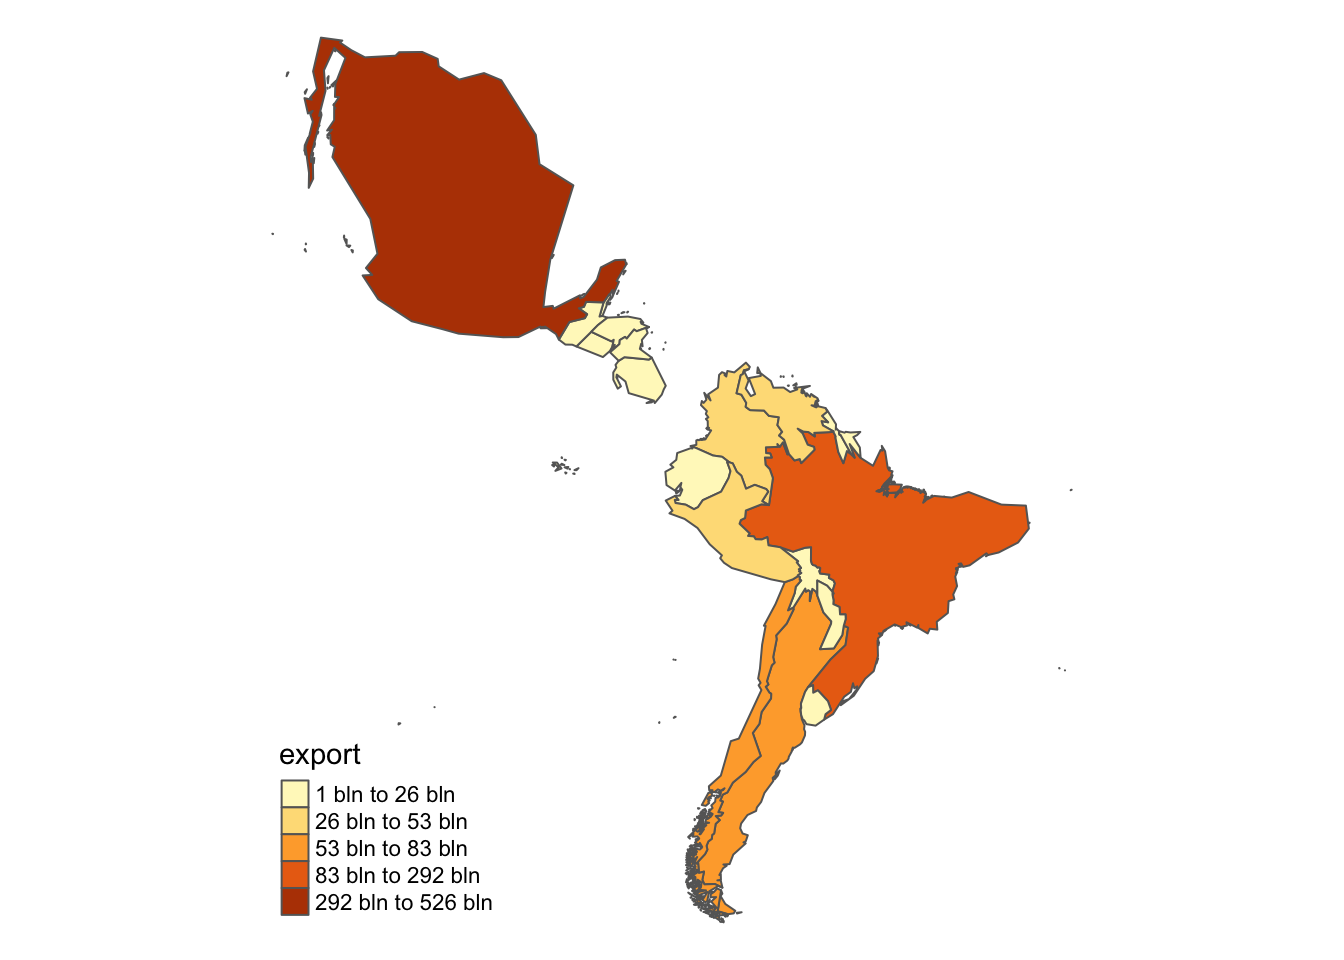
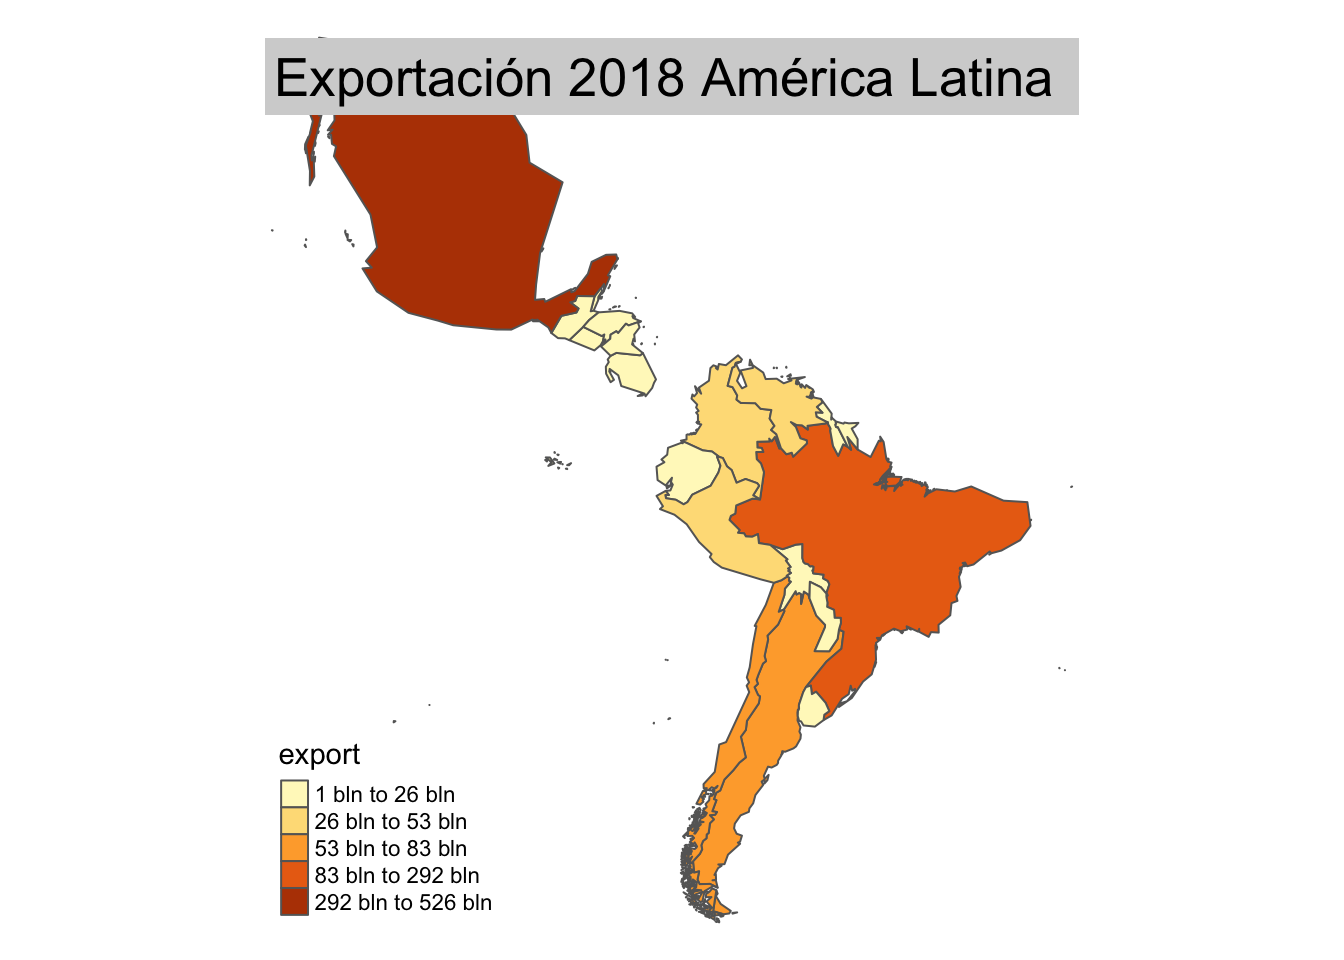
Updating export anlysis

diff --git a/content/post/2021-01-09-export/index.html b/content/post/2021-01-09-export/index.html
@@ -33,7 +33,9 @@ library(ggplot2)
 library(ggthemes)
 library(scales)
 library(maptools)
-library(cartogram)</code></pre>
+library(cartogram)
+library(sf)
+library(tmap)</code></pre>
 </div>
 <div id="cartograma-de-las-exportaciones-en-américa-latina" class="section level2">
 <h2>Cartograma de las exportaciones en América Latina</h2>
@@ -64,41 +66,182 @@ export_latam &lt;- merge(x = comercio_mundo_api, y = countries_LATAM,
          reporter_fullname_english != &quot;Br. Virgin Isds&quot;,
          reporter_fullname_english != &quot;United States Minor Outlying Islands&quot;,
          reporter_fullname_english != &quot;South Georgia and the South Sandwich Islands&quot;) %&gt;% # Saco los países no correspondiendo a América Latina
-  drop_na()
-</code></pre>
+  drop_na()</code></pre>
 </div>
-<div id="generando-el-cartograma" class="section level3">
-<h3>Generando el cartograma</h3>
-<pre class="r"><code>library(sf)
-library(rgdal)
-library(tmap)
-library(broom)
-
-# Data of world map:
+<div id="generando-cartogramas" class="section level3">
+<h3>Generando cartogramas</h3>
+<p>Estuve trabajando mucho tiempo para lograr hacer el cartograma que encontré dos diferentes metodos de hacer el cartograma.</p>
+<p>Las mayoría de las guías que encontré online utilizaban principalmente la información que viene cargada con el parquete de maptools (donde se encuentra “wrld_simpl”) (como por ejemplo este articulo: <a href="https://www.r-graph-gallery.com/331-basic-cartogram.html" class="uri">https://www.r-graph-gallery.com/331-basic-cartogram.html</a>, donde parece muy fácil hacer un cartograma).</p>
+<p>Así, estaba buscando durante mucho tiempo como hacer para poder utilizar los datos de exportación que tenía desde Open Trade Statistics. En el camino de idas y vueltas, encontré que había encontrado dos diferente metodos de hacer los cartogramas, así decidí mostrar ambos metodos:</p>
+<div id="metodo-1" class="section level4">
+<h4>Metodo 1:</h4>
+<p>Este primer metodo se base principalmente en un articulo de r-graph-gallery.com (<a href="https://www.r-graph-gallery.com/332-hexbin-chloropleth-cartogram.html" class="uri">https://www.r-graph-gallery.com/332-hexbin-chloropleth-cartogram.html</a>) y los ejemplos de graficos del Github del paquete de “cartogram” (<a href="https://github.com/sjewo/cartogram" class="uri">https://github.com/sjewo/cartogram</a>).</p>
+<p>El articlo de r-graph-gallery.com me ayudó mucho a entender como manipular los datos de Open Trade Statistics para poder implementarlos con el</p>
+<pre class="r"><code># Data of world map:
 data(wrld_simpl)
+
 # Eligo el subset de América de Sur y América Central
 latam &lt;- subset(wrld_simpl,wrld_simpl$SUBREGION==5|wrld_simpl$SUBREGION==13) 
 
-# Generando un &quot;spacial element&quot;
+# Generando un &quot;geospatial object&quot; que cubre América Latina:
 latam &lt;- spTransform(latam, CRS(&quot;+init=epsg:31972&quot;))
 
+# Añadí una variable que se llama &quot;reporter_fullname_english&quot; al geospatial object&quot;
+# y indico que es igual al &quot;NAME&quot; en el objeto &quot;latam&quot;, así puedo unir los dos data frames más adelante
 latam@data = latam@data %&gt;%
   mutate(reporter_fullname_english = latam$NAME)
 
-# creating the data frame with the export data:
+# Generé un data frame con la importación cargada arriba de información de las exportaciones:
 export_latam_2018 &lt;- data.frame(reporter_fullname_english = export_latam$reporter_fullname_english, export = export_latam$export_value_usd)
 
+# Uno los dos elementos:
 latam@data &lt;- latam@data %&gt;% left_join(., export_latam_2018, by=c(&quot;NAME&quot; = &quot;reporter_fullname_english&quot;))
 
-cartogram &lt;- cartogram_cont(latam, &#39;export&#39;, itermax = 7)
+# Genero el cartograma con el package &quot;cartogram&quot;
+cartogram &lt;- cartogram_cont(latam, &#39;export&#39;, itermax = 5)
 
+# Usando &quot;tmap&quot; para dujar el mapa:
 tm_shape(cartogram) + tm_polygons(&quot;export&quot;, style = &quot;jenks&quot;) +
-  tm_layout(frame = FALSE, legend.position = c(&quot;left&quot;, &quot;bottom&quot;)) +
-  labs(title = &quot;Exportación 2018 América Latina&quot;)</code></pre>
+  tm_layout(frame = FALSE, 
+            legend.position = c(&quot;left&quot;, &quot;bottom&quot;), 
+            title = &quot;Exportación 2018 América Latina&quot;,
+            title.size = 10,
+            title.bg.color = &quot;light grey&quot;)</code></pre>
 <p><img src="index_files/figure-html/mapa-1.png" width="672" /></p>
+</div>
+<div id="metodo-2" class="section level4">
+<h4>Metodo 2:</h4>
+<p>Durante el tiempo que intenté unir las data frames correctamente y terminé con muchos errores de R, encontré otra manera de generar el “geospatial object” y que permite utilizar ggplot para graficar el mapa.</p>
+<p>Así, en este metodo de graficar un cartograma, sigo el metodo explicado acá: <a href="https://stackoverflow.com/questions/59809551/error-with-plotting-cartogram-this-function-does-not-give-correct-centroids-a" class="uri">https://stackoverflow.com/questions/59809551/error-with-plotting-cartogram-this-function-does-not-give-correct-centroids-a</a></p>
+<p>La mayoría de los pases son iguales pero el mapa que puedo graficar es diferente con este metodo y por eso lo incluí también. Además me gustó mucho más este cartograma que el primero que logré hacer y es más fácil customizarlo ya que utilizar ggplot:</p>
+<pre class="r"><code># Data of world map:
+data(wrld_simpl)
+
+# Eligo el subset de América de Sur y América Central
+latam &lt;- subset(wrld_simpl,wrld_simpl$SUBREGION==5|wrld_simpl$SUBREGION==13) 
+
+# Generando un &quot;geospatial object&quot;
+sfno &lt;- st_as_sf(latam)
+st_crs(sfno)
+## Coordinate Reference System:
+##   User input: +proj=longlat +ellps=WGS84 +towgs84=0,0,0,0,0,0,0 +no_defs 
+##   wkt:
+## GEOGCRS[&quot;unknown&quot;,
+##     DATUM[&quot;World Geodetic System 1984&quot;,
+##         ELLIPSOID[&quot;WGS 84&quot;,6378137,298.257223563,
+##             LENGTHUNIT[&quot;metre&quot;,1]],
+##         ID[&quot;EPSG&quot;,6326]],
+##     PRIMEM[&quot;Greenwich&quot;,0,
+##         ANGLEUNIT[&quot;degree&quot;,0.0174532925199433],
+##         ID[&quot;EPSG&quot;,8901]],
+##     CS[ellipsoidal,2],
+##         AXIS[&quot;longitude&quot;,east,
+##             ORDER[1],
+##             ANGLEUNIT[&quot;degree&quot;,0.0174532925199433,
+##                 ID[&quot;EPSG&quot;,9122]]],
+##         AXIS[&quot;latitude&quot;,north,
+##             ORDER[2],
+##             ANGLEUNIT[&quot;degree&quot;,0.0174532925199433,
+##                 ID[&quot;EPSG&quot;,9122]]]]
+sfnoproj &lt;- st_transform(sfno, coords = c(&quot;lon&quot;, &quot;lat&quot;), 
+                        crs = &quot;+proj=longlat +datum=WGS84&quot;, 
+                        agr = &quot;constant&quot;)
+st_crs(sfnoproj)
+## Coordinate Reference System:
+##   User input: +proj=longlat +ellps=WGS84 +towgs84=0,0,0,0,0,0,0 +no_defs 
+##   wkt:
+## GEOGCRS[&quot;unknown&quot;,
+##     DATUM[&quot;World Geodetic System 1984&quot;,
+##         ELLIPSOID[&quot;WGS 84&quot;,6378137,298.257223563,
+##             LENGTHUNIT[&quot;metre&quot;,1]],
+##         ID[&quot;EPSG&quot;,6326]],
+##     PRIMEM[&quot;Greenwich&quot;,0,
+##         ANGLEUNIT[&quot;degree&quot;,0.0174532925199433],
+##         ID[&quot;EPSG&quot;,8901]],
+##     CS[ellipsoidal,2],
+##         AXIS[&quot;longitude&quot;,east,
+##             ORDER[1],
+##             ANGLEUNIT[&quot;degree&quot;,0.0174532925199433,
+##                 ID[&quot;EPSG&quot;,9122]]],
+##         AXIS[&quot;latitude&quot;,north,
+##             ORDER[2],
+##             ANGLEUNIT[&quot;degree&quot;,0.0174532925199433,
+##                 ID[&quot;EPSG&quot;,9122]]]]
+sfproj &lt;- st_transform(sfno, crs = 31972)
+st_crs(sfproj)
+## Coordinate Reference System:
+##   User input: EPSG:31972 
+##   wkt:
+## PROJCRS[&quot;SIRGAS 2000 / UTM zone 18N&quot;,
+##     BASEGEOGCRS[&quot;SIRGAS 2000&quot;,
+##         DATUM[&quot;Sistema de Referencia Geocentrico para las AmericaS 2000&quot;,
+##             ELLIPSOID[&quot;GRS 1980&quot;,6378137,298.257222101,
+##                 LENGTHUNIT[&quot;metre&quot;,1]]],
+##         PRIMEM[&quot;Greenwich&quot;,0,
+##             ANGLEUNIT[&quot;degree&quot;,0.0174532925199433]],
+##         ID[&quot;EPSG&quot;,4674]],
+##     CONVERSION[&quot;UTM zone 18N&quot;,
+##         METHOD[&quot;Transverse Mercator&quot;,
+##             ID[&quot;EPSG&quot;,9807]],
+##         PARAMETER[&quot;Latitude of natural origin&quot;,0,
+##             ANGLEUNIT[&quot;degree&quot;,0.0174532925199433],
+##             ID[&quot;EPSG&quot;,8801]],
+##         PARAMETER[&quot;Longitude of natural origin&quot;,-75,
+##             ANGLEUNIT[&quot;degree&quot;,0.0174532925199433],
+##             ID[&quot;EPSG&quot;,8802]],
+##         PARAMETER[&quot;Scale factor at natural origin&quot;,0.9996,
+##             SCALEUNIT[&quot;unity&quot;,1],
+##             ID[&quot;EPSG&quot;,8805]],
+##         PARAMETER[&quot;False easting&quot;,500000,
+##             LENGTHUNIT[&quot;metre&quot;,1],
+##             ID[&quot;EPSG&quot;,8806]],
+##         PARAMETER[&quot;False northing&quot;,0,
+##             LENGTHUNIT[&quot;metre&quot;,1],
+##             ID[&quot;EPSG&quot;,8807]]],
+##     CS[Cartesian,2],
+##         AXIS[&quot;(E)&quot;,east,
+##             ORDER[1],
+##             LENGTHUNIT[&quot;metre&quot;,1]],
+##         AXIS[&quot;(N)&quot;,north,
+##             ORDER[2],
+##             LENGTHUNIT[&quot;metre&quot;,1]],
+##     USAGE[
+##         SCOPE[&quot;unknown&quot;],
+##         AREA[&quot;Latin America - 78°W to 72°West; N hemisphere and SIRGAS by country&quot;],
+##         BBOX[0,-78,15.04,-72]],
+##     ID[&quot;EPSG&quot;,31972]]
+
+sfproj = sfproj %&gt;%
+  mutate(reporter_fullname_english = sfproj$NAME)
+
+# Data frame sobre exportaciones
+export_latam_2018 &lt;- data.frame(reporter_fullname_english = export_latam$reporter_fullname_english, export = export_latam$export_value_usd)
+
+# Unir los dos elementos
+sfproj = sfproj %&gt;% left_join(., export_latam_2018, by=c(&quot;NAME&quot; = &quot;reporter_fullname_english&quot;))
+
+cartogram_1 &lt;- cartogram_cont(sfproj, &#39;export&#39;, itermax = 5)
+
+# Utilizando ggplot to graficar el cartograma:
+ggplot() +
+  geom_sf(data=cartogram_1, aes(fill = export)) +
+  labs(title = &quot;Exportación 2018 América Latina&quot;,
+  caption = &quot;Fuerte: Open Trade Statistics&quot;) +
+  scale_fill_continuous(labels = scales::dollar_format()) +
+  theme(
+    legend.text = element_text(size = 8),
+    plot.background = element_rect(fill = &quot;#f5f5f4&quot;, color = NA),
+    panel.background = element_rect(fill = &quot;#f5f5f4&quot;, color = NA), 
+    legend.background = element_rect(fill = &quot;#f5f5f4&quot;, color = NA))</code></pre>
+<p><img src="index_files/figure-html/mapa%20blue-1.png" width="672" /></p>
+</div>
 </div>
 <div id="sum-up" class="section level3">
 <h3>Sum-up</h3>
+<p>En ambos cartogramas quedó muy claro que México sin duda ninguna es el mayor exportador en la región. Después le sigue Brasil.</p>
+<p>Lo interesante de utilizar el cartograma es que además de los colors, expande el tamaño de los países según el nivel de la variable elegido. Por eso, México se ve muy muy grande, mientras que Brasil en realidad se ve más chico de lo que es.</p>
+<p>Además, el cartograma demuestra como casi todos los demás países parecen tener más o menos al mismo nivel de exportaciones. Algún lugar entre 100,000,000,000 y 200,000,000,000.</p>
+<p>No obstante, el cartograma no demuestra nada sobre qué tipo de productos que se está exportando, por eso en la siguiente parte trato de hacer un breve analisis de los productos que más se exporta de América Latina.</p>
 </div>
 </div>
 <div id="exportaciones-por-categorías-de-productos" class="section level2">
